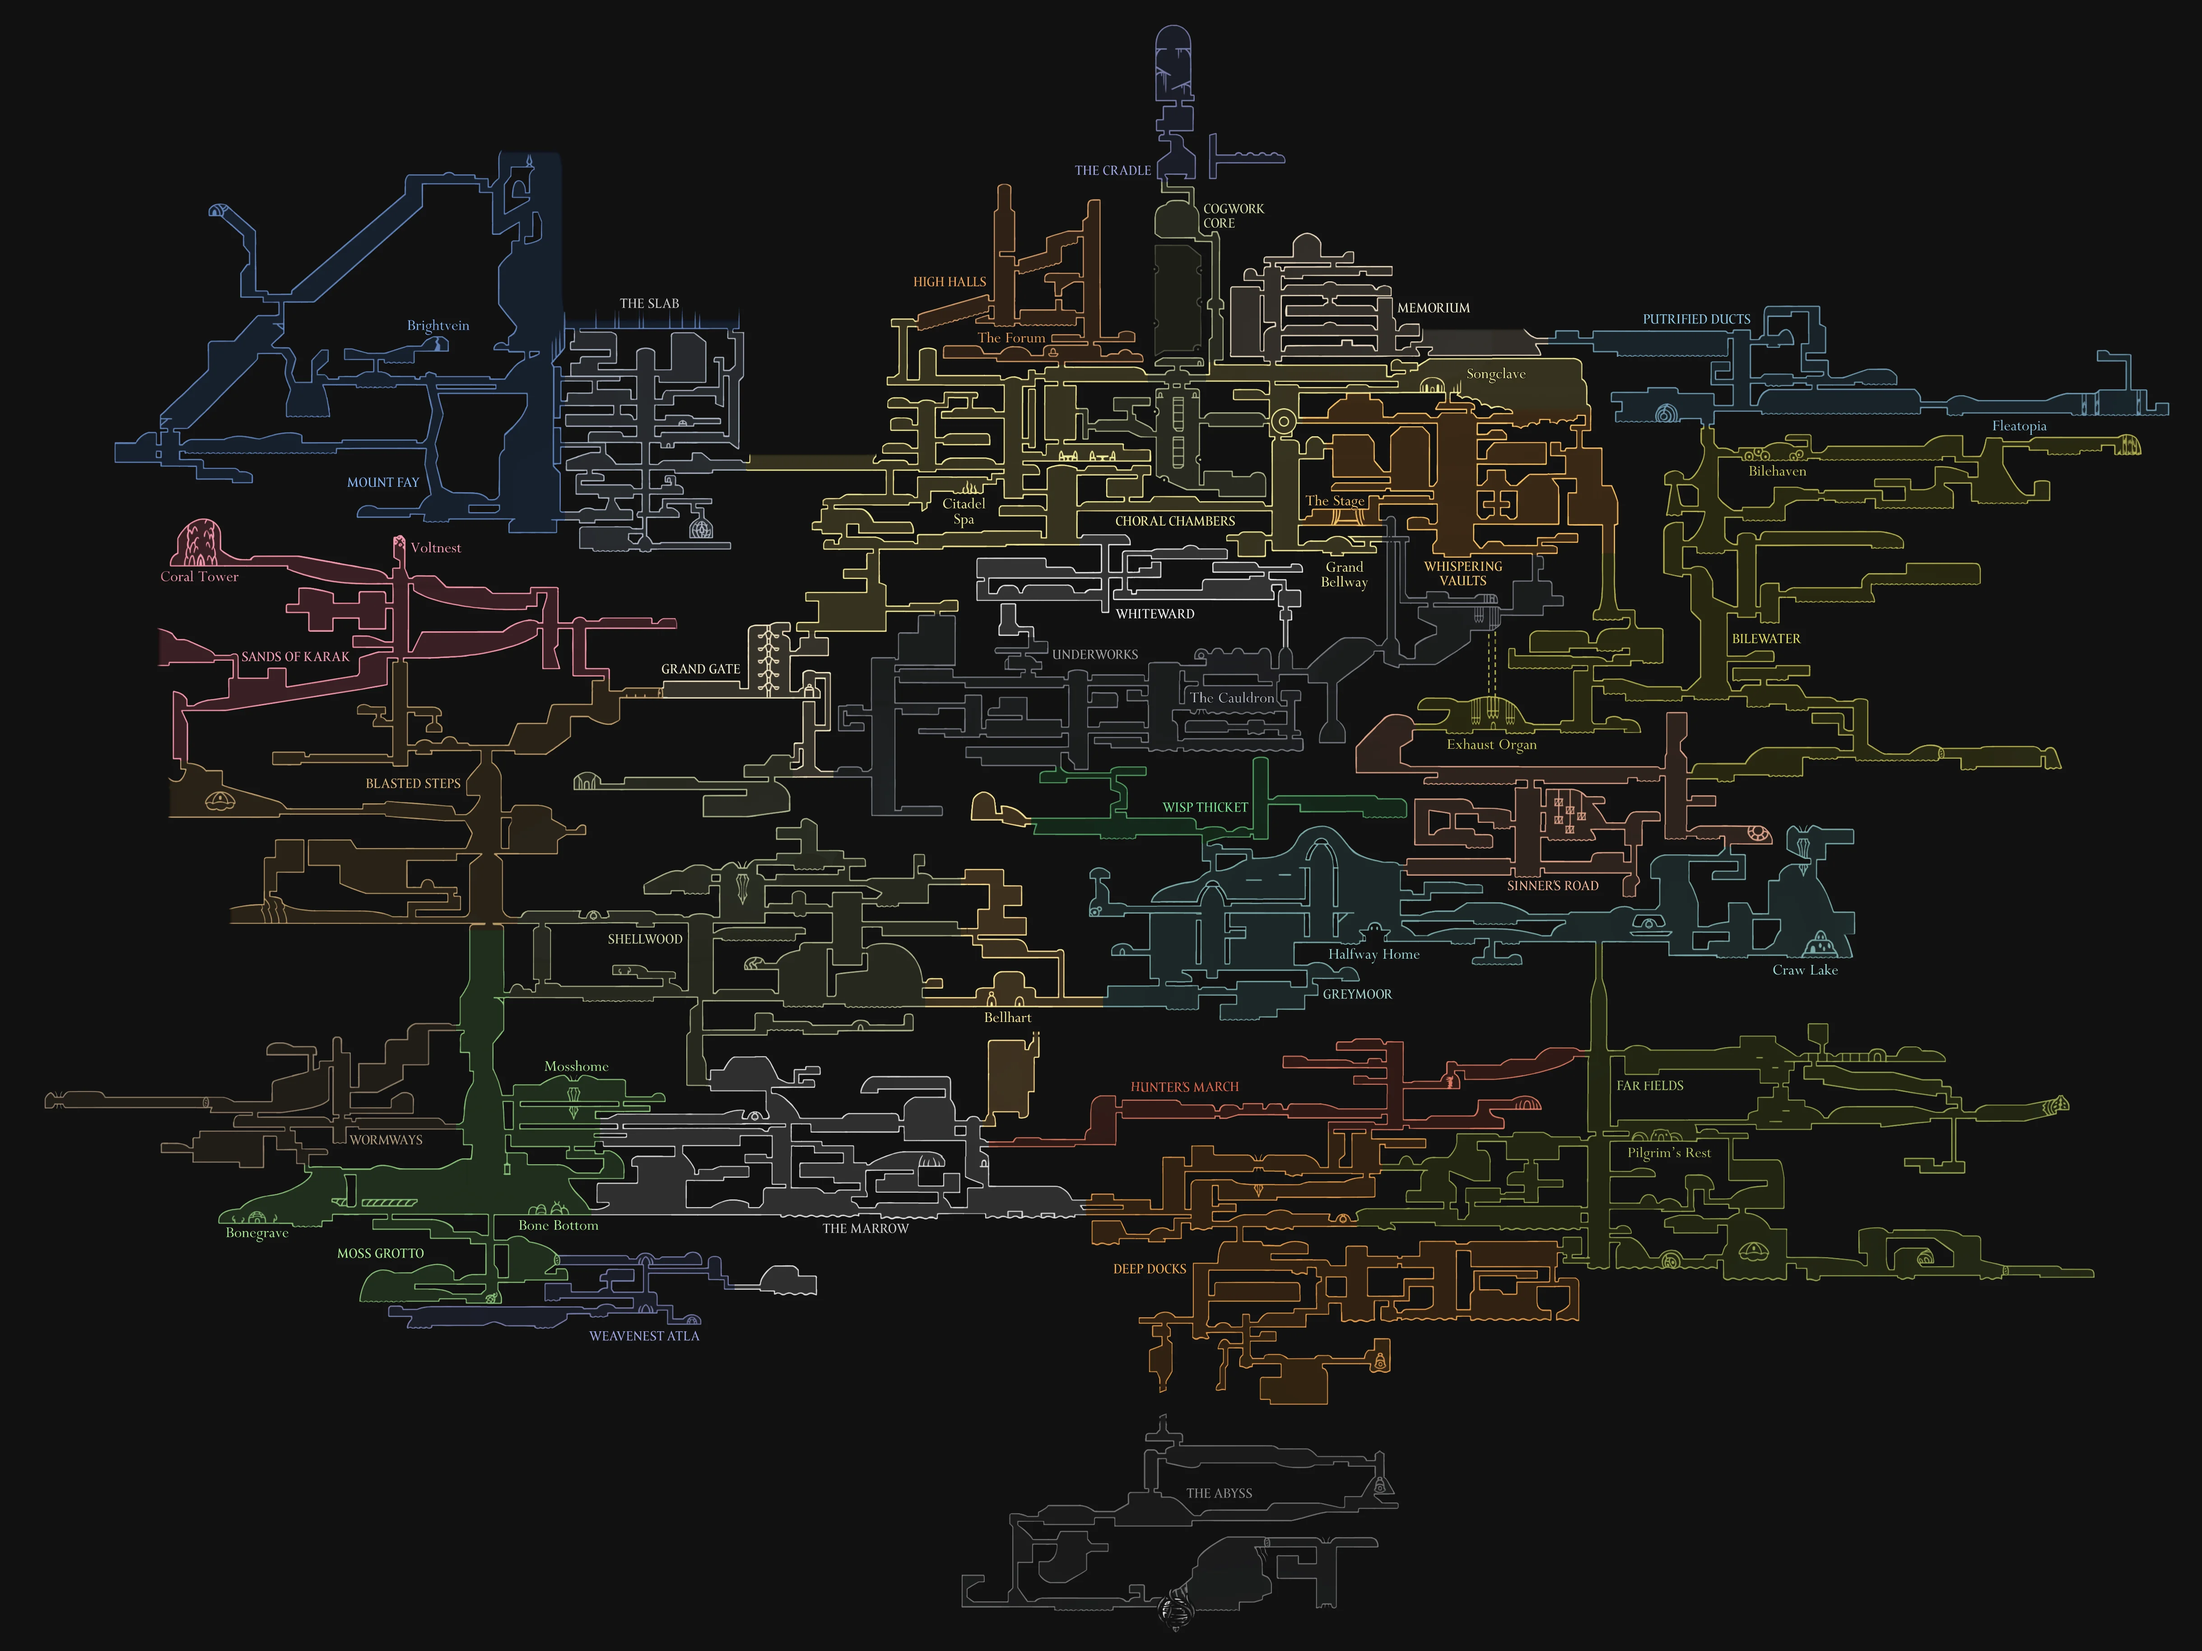
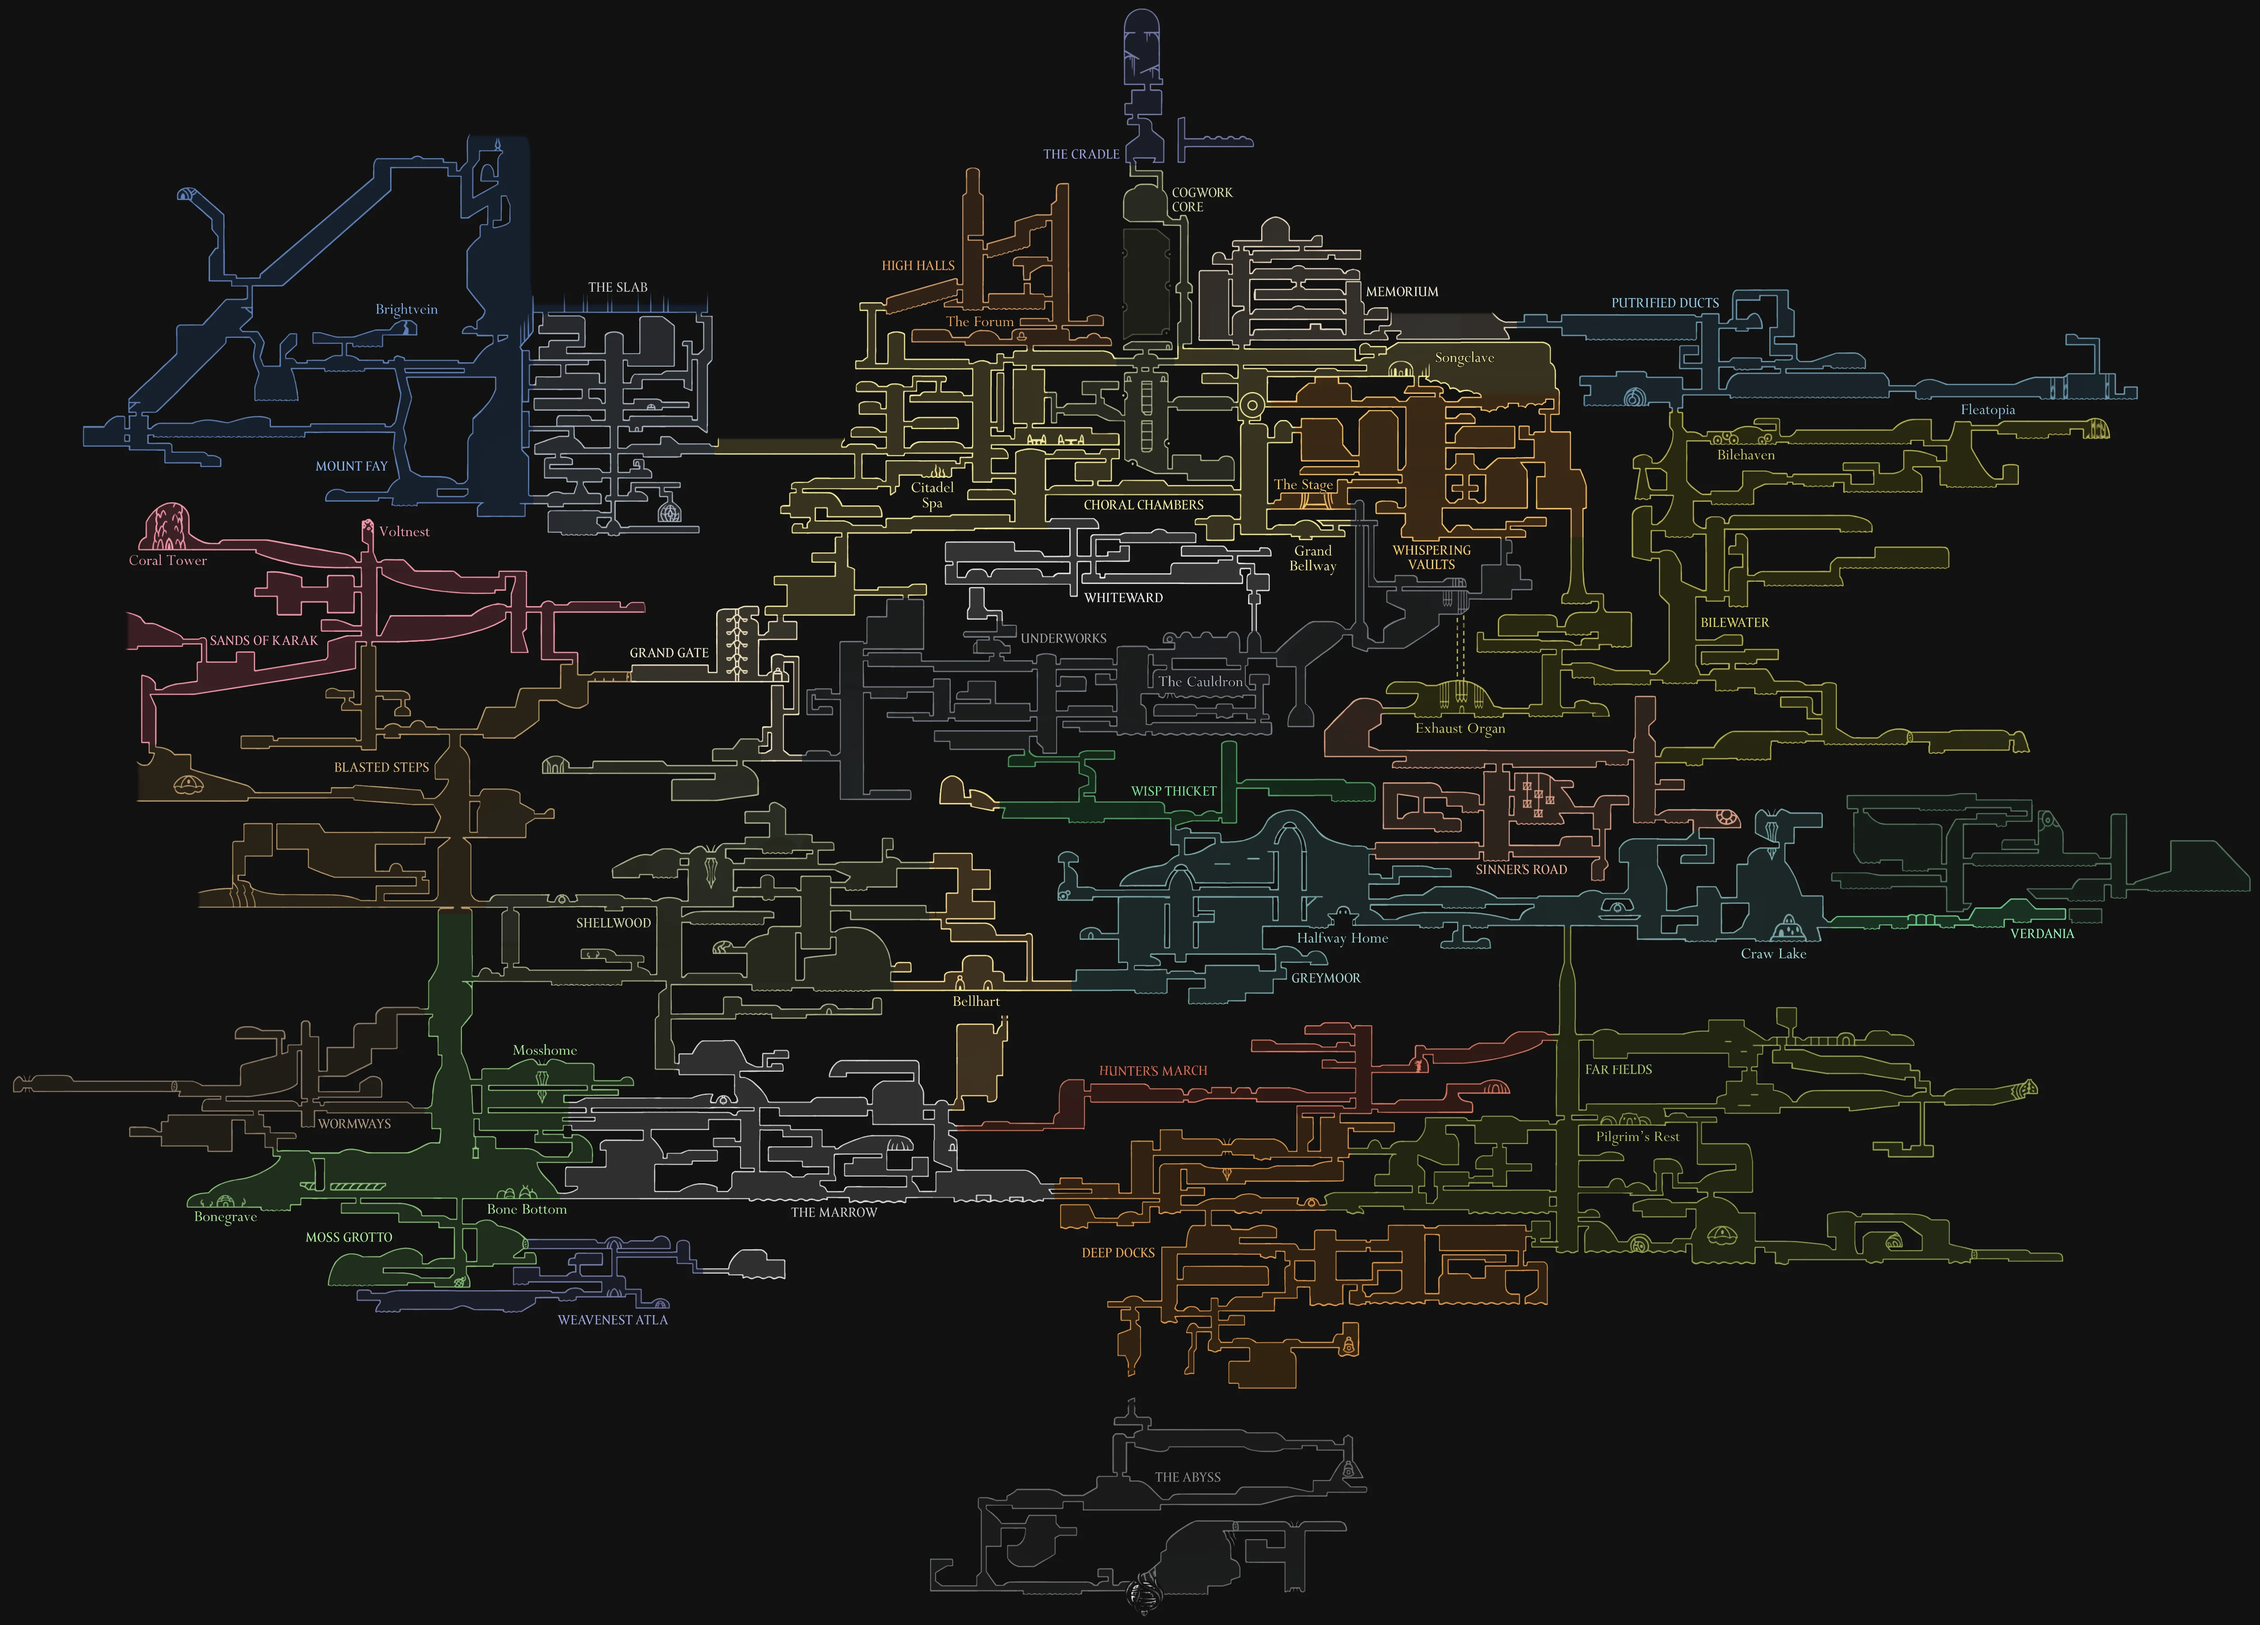
more complete map

Changed region(s): [[0.0312, 0.0, 0.9973, 0.965], [0.4363, 0.9339, 0.5298, 0.9961]]

diff --git a/data/silksong/data.js b/data/silksong/data.js
@@ -8,8 +8,8 @@ window.jsonp_mapdata = {
 		sizeN: 0,
 		sizeS: 1,
 		zoomLevel: 100,
-		tileWidth: 4877,
-		tileHeight: 3656,
+		tileWidth: 5005,
+		tileHeight: 3598,
 		offsetX: 0,
 		offsetY: 0,
 	}],
